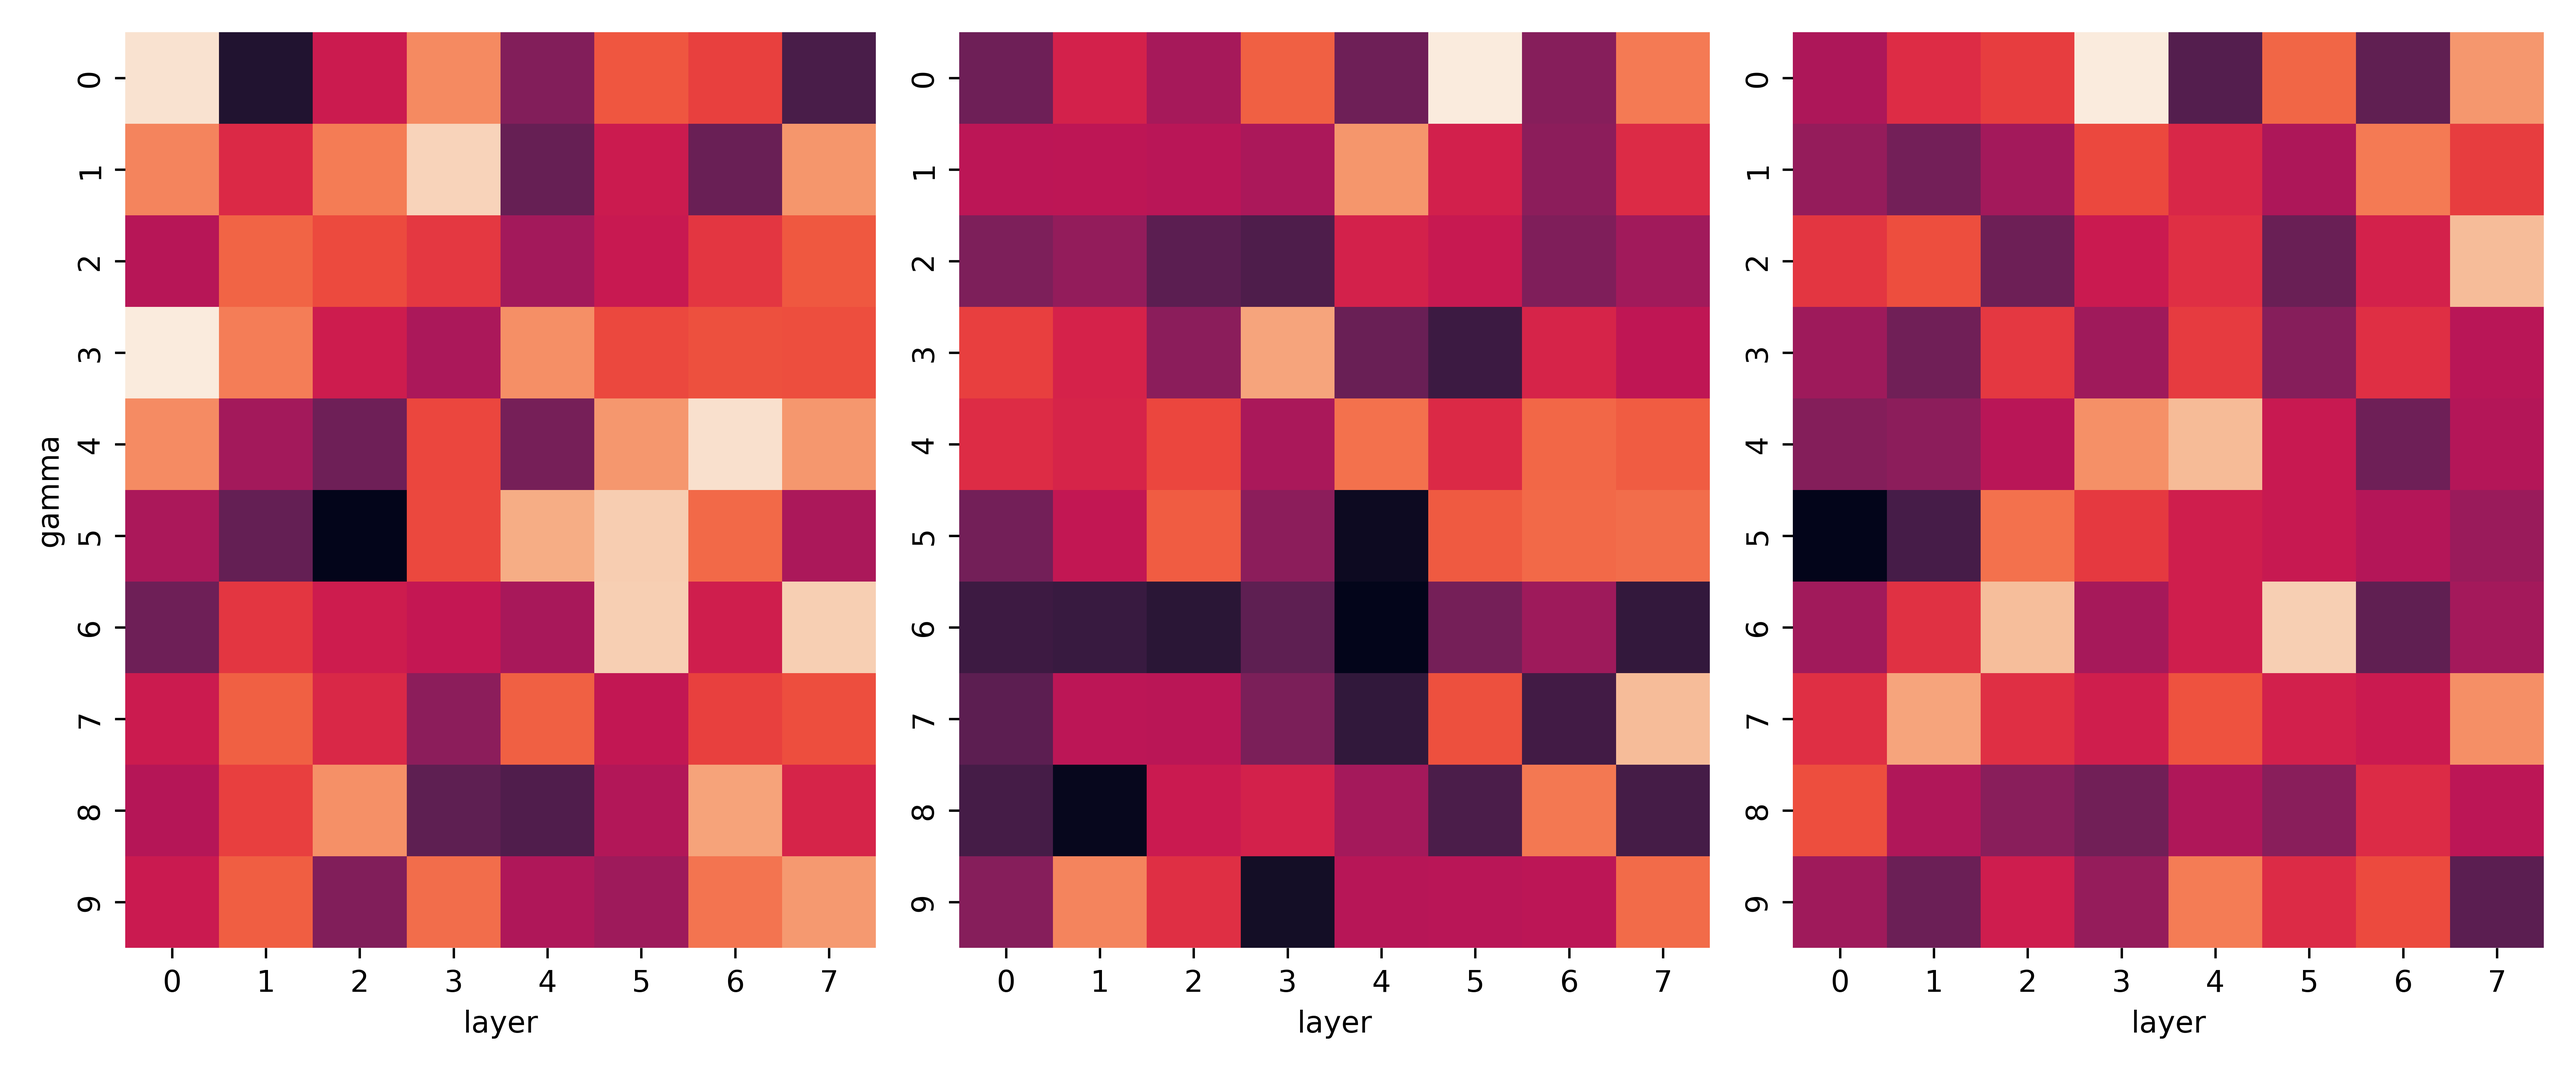
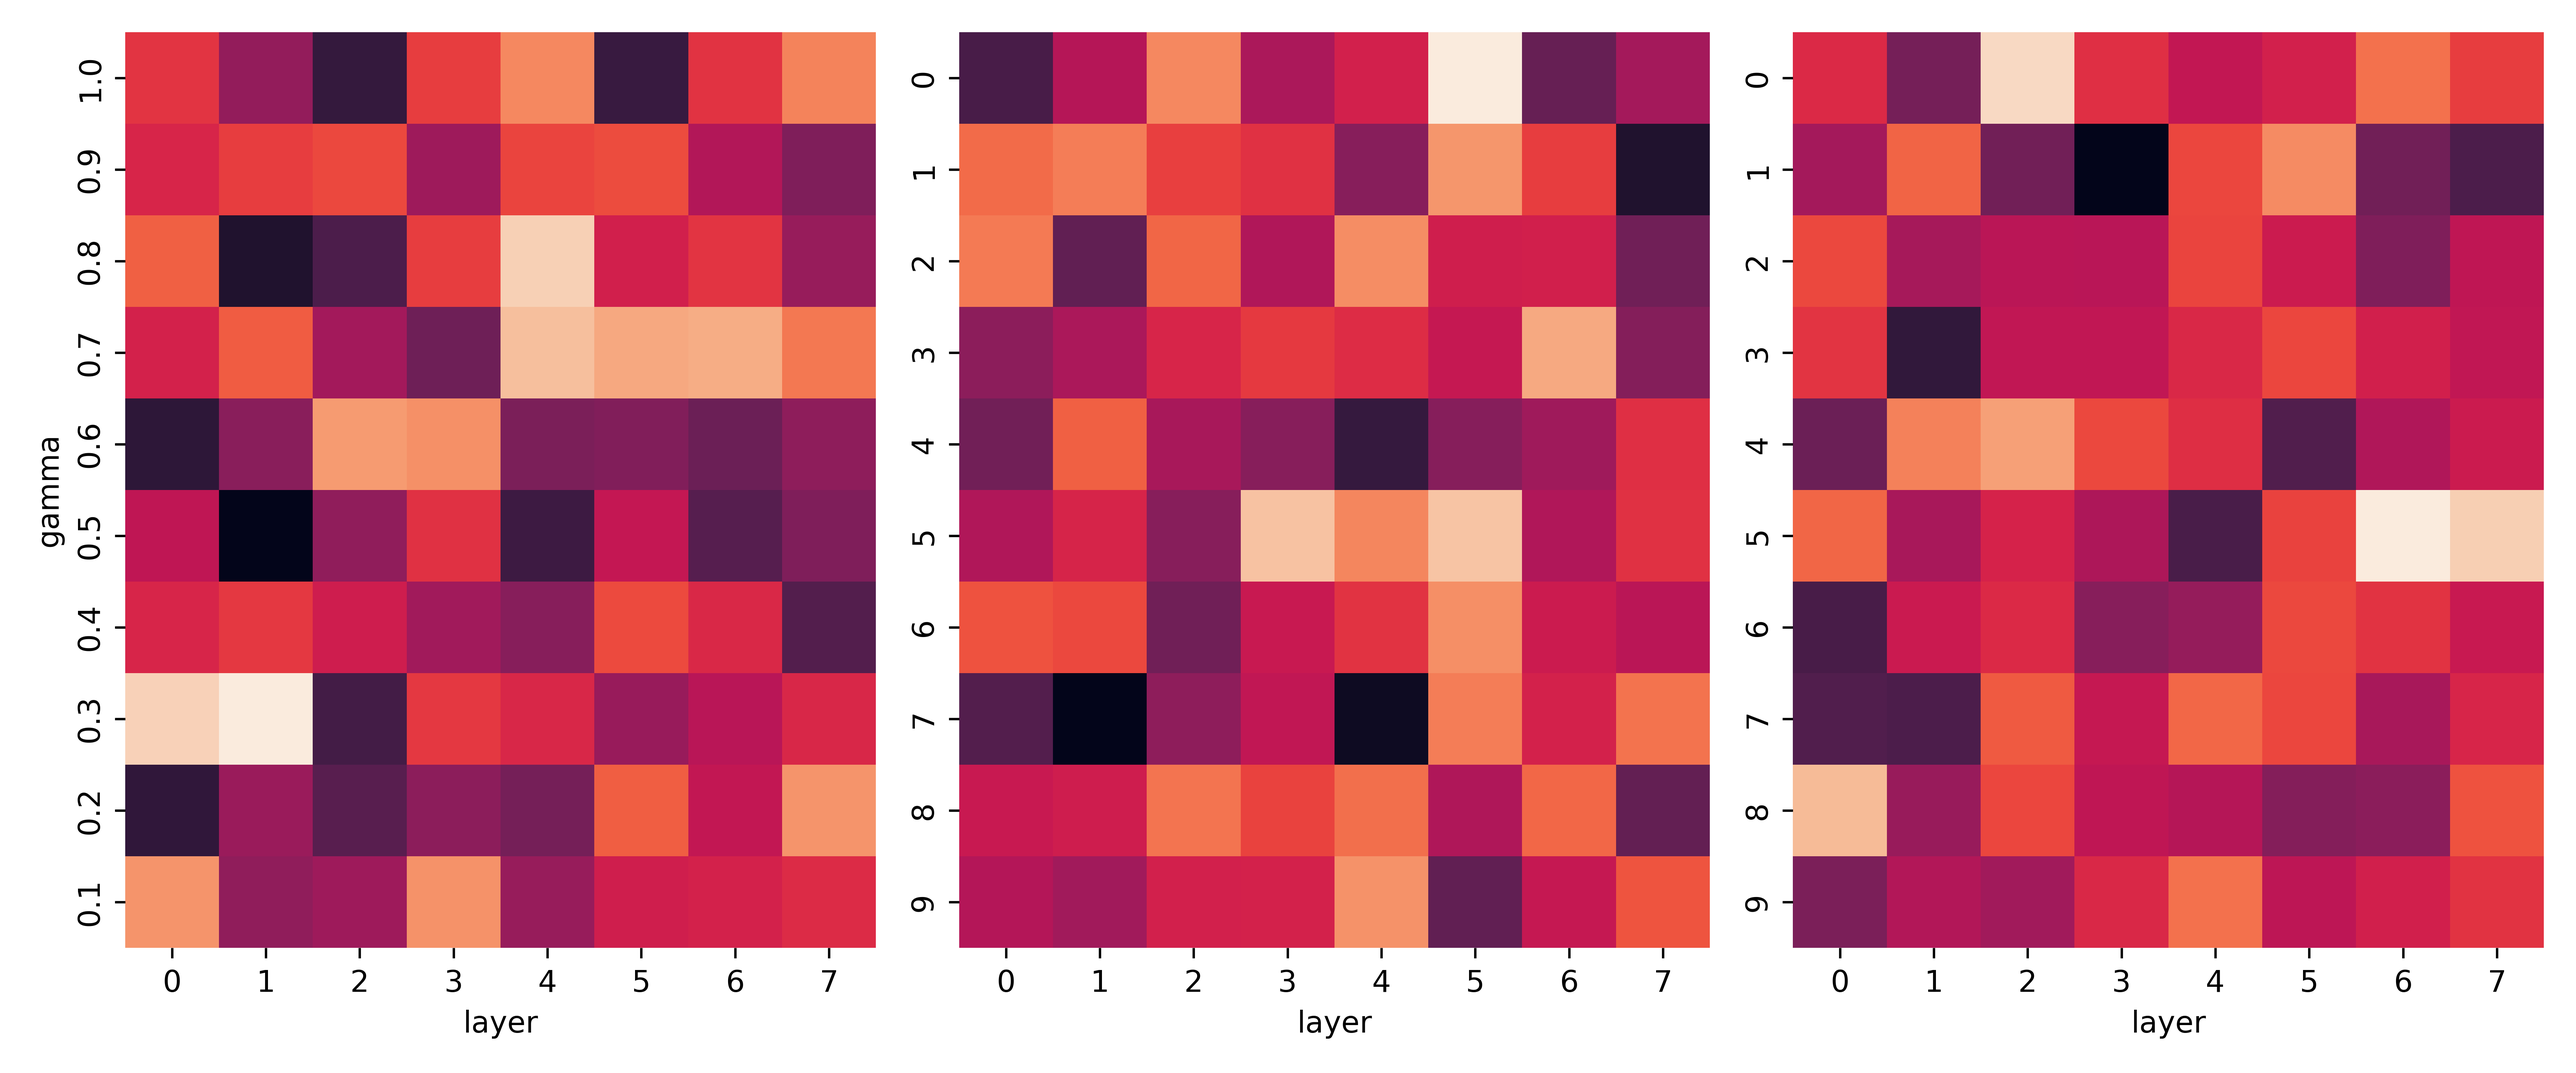
update random plot

diff --git a/src/plot_scripts/plot_single_layer_heatmap.py b/src/plot_scripts/plot_single_layer_heatmap.py
@@ -9,43 +9,51 @@ import os
 
 dataset = "SVHN"
 architecture = "VGG"
+size = 11
 bn = True
+width = 1
 
 metrics = ["acc", "loss"]
 
-for metric in metrics:
 
-    tensor1 = torch.randn(10, 8) * 10
-    tensor2 = torch.randn(10, 8) * 50
-    tensor3 = torch.randn(10, 8) * 100
+tensor1 = torch.randn(10, 8) * 10
+tensor2 = torch.randn(10, 8) * 50
+tensor3 = torch.randn(10, 8) * 100
 
-    # Creating subplots
-    fig, axes = plt.subplots(1, 3, figsize=(12, 5))
+# Creating subplots
+fig, axes = plt.subplots(1, 3, figsize=(12, 5))
 
-    # Plotting the heatmaps
-    sns.heatmap(tensor1, ax=axes[0], cbar=False)
-    sns.heatmap(tensor2, ax=axes[1], cbar=False)
-    sns.heatmap(tensor3, ax=axes[2], cbar=False)
+plt.title(f"Expanding individual layers\n{architecture}{size}, {dataset}, {width}×width")
 
-    # Setting up the axes
-    # Show y-axis only on the left subplot
-    axes[0].set_ylabel("gamma")
-    for ax in axes[1:]:
-        ax.set_ylabel("")
+axes[0].set_title("Test accuracy")
+axes[1].set_title("Test loss")
+axes[2].set_title("Parameter increase")
 
-    # Show x-axis on all subplots
-    for ax in axes:
-        ax.set_xlabel("layer")
+# Plotting the heatmaps
+sns.heatmap(tensor1, ax=axes[0], cbar=False)
+sns.heatmap(tensor2, ax=axes[1], cbar=False)
+sns.heatmap(tensor3, ax=axes[2], cbar=False)
 
-    plt.tight_layout()
-    plots_dir = "/home/korbinian/Documents/Masterarbeit/partial-model-merging/plots/plot_single_layer_heatmap/"
-    # plots_dir = get_plots_dir(subdir=Path(__file__).stem)
-    plt.savefig(
-        os.path.join(
-            plots_dir,
-            f"per_layer_{metric}_{dataset}_{architecture}.png",
-        ),
-        dpi=600,
-    )
-    plt.close()
-    print(f"📊 per layer {metric} {dataset} {architecture} plot saved")
+# Setting up the axes
+# Show y-axis only on the left subplot
+axes[0].set_ylabel("gamma")
+axes[0].set_yticklabels(reversed([f"{x:.1f}" for x in torch.linspace(0.1, 1, 10)]))
+for ax in axes[1:]:
+    ax.set_ylabel("")
+
+# Show x-axis on all subplots
+for ax in axes:
+    ax.set_xlabel("layer")
+
+plt.tight_layout()
+plots_dir = "/home/korbinian/Documents/Masterarbeit/partial-model-merging/plots/plot_single_layer_heatmap/"
+# plots_dir = get_plots_dir(subdir=Path(__file__).stem)
+plt.savefig(
+    os.path.join(
+        plots_dir,
+        f"per_layer_{dataset}_{architecture}.png",
+    ),
+    dpi=600,
+)
+plt.close()
+print(f"📊 per layer {dataset} {architecture} plot saved")

diff --git a/src/plot_scripts/plot_AUC_random_vs_lap.py b/src/plot_scripts/plot_AUC_random_vs_lap.py
@@ -10,8 +10,8 @@ from safetensors.torch import load_file
 from src.utils import get_plots_dir, get_evaluations_dir
 
 
-dataset = "CIFAR10"
-architecture = "ResNet"
+dataset = "MNIST"
+architecture = "MLP"
 bn = True
 
 metrics = ["acc", "loss"]
